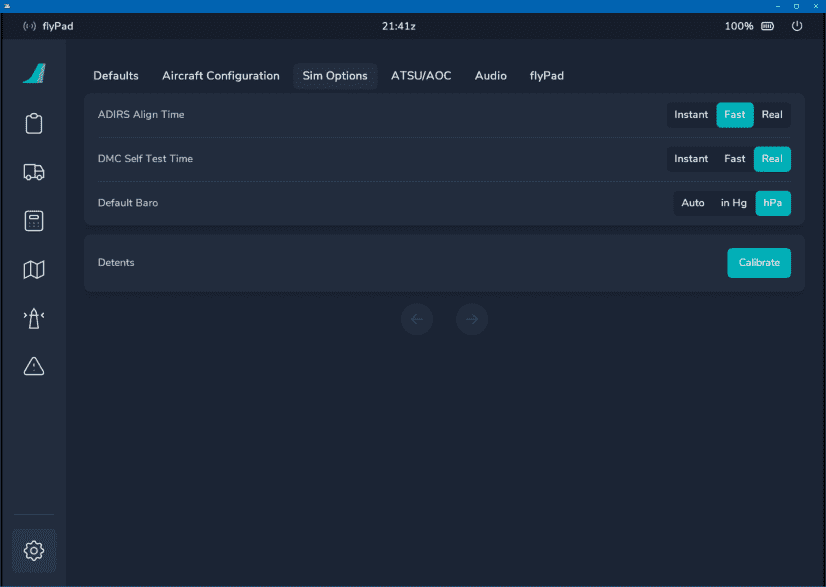
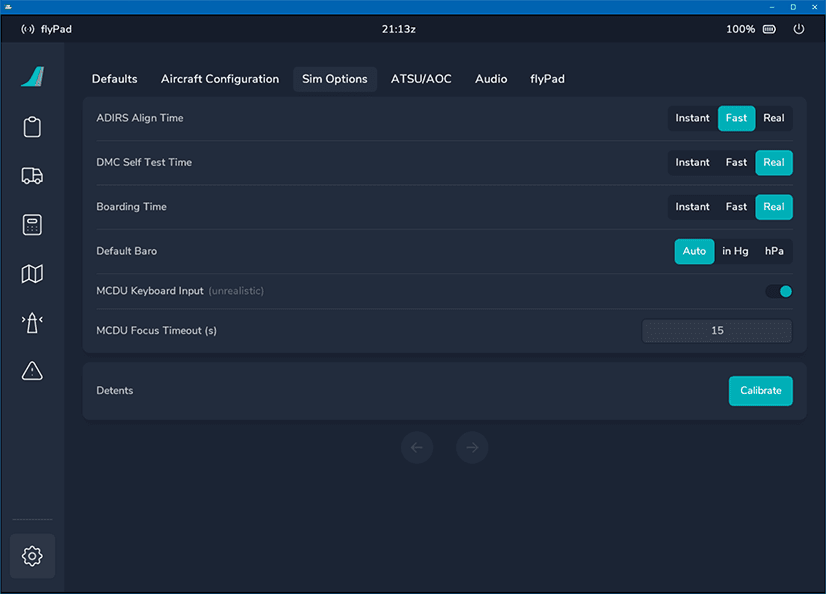
Updated screenshot flyPad settings Sim Options in settings and MCDU-KB guide

diff --git a/docs/fbw-a32nx/feature-guides/flyPad/settings.md b/docs/fbw-a32nx/feature-guides/flyPad/settings.md
@@ -69,7 +69,6 @@ Settings for simulation aspects of the A32NX aircraft.
     <span class="imagesub">Click on the menu icons in this image to see other flyPad pages.</span>
 </div>
 
-
 ### Usage
 
 - ADIRS Align Time:
@@ -78,9 +77,15 @@ Settings for simulation aspects of the A32NX aircraft.
     - User can set the time for the Display Management Computer's self test (Real ~15sec, Fast ~5sec, Instant).
 - Boarding Time:
     - User can set the simulated boarding time to either a realistic time (~15min), a faster time (~3-4min), or instant.
-        - Based on full load - 174 passengers and full cargo. 
+    - Based on full load - 174 passengers and full cargo.
 - Default Baro:
     - User can set which baro setting he wants to have as a default: inHg, hPA or Auto (depends on the airport where the aircraft spawned)
+- MCDU Keyboard Input (unrealistic):
+    - The A32NX is capable of accepting native keyboard inputs when utilizing the MCDU.
+    - See our detailed guide here: [MCDU Keyboard](../mcdu-keyboard.md)
+- MCDU Focus Timeout (s):
+    - The timeout feature will "automatically unfocus" the MCDU screen for keyboard input.
+    - See our detailed guide here: [MCDU Keyboard](../mcdu-keyboard.md)
 - Detents:
     - See [Throttle Configuration](throttle-calibration.md)
 

diff --git a/docs/fbw-a32nx/feature-guides/mcdu-keyboard.md b/docs/fbw-a32nx/feature-guides/mcdu-keyboard.md
@@ -27,7 +27,7 @@ What this feature allows:
 
 To begin using your keyboard with the MCDU you must first enable the function within in the EFB settings:
 
-![EFB Settings for MCDU Keyboard](../assets/mcdu-kb/efb-settings-simoptions-mcdukb.jpg "EFB Settings for MCDU Keyboard"){loading=lazy}
+![EFB Settings for MCDU Keyboard](../assets/mcdu-kb/efb-settings-simoptions-mcdukb.png "EFB Settings for MCDU Keyboard"){loading=lazy}
 
 Once you have completed the above steps simply click on the MCDU screen to put it into focus. The MCDU will display a visual indicator when input is ready to be accepted. The scratchpad should be highlighted, and the title will be highlighted in cyan as well.
 
@@ -75,7 +75,7 @@ Return to the EFB settings page and adjust the `MCDU Focus Timeout` setting.
 
 Sample Image:
 
-![EFB Settings for MCDU Keyboard](../assets/mcdu-kb/efb-settings-simoptions-mcdukb.jpg "EFB Settings for MCDU Keyboard"){loading=lazy}
+![EFB Settings for MCDU Keyboard](../assets/mcdu-kb/efb-settings-simoptions-mcdukb.png "EFB Settings for MCDU Keyboard"){loading=lazy}
 
 ---
 
